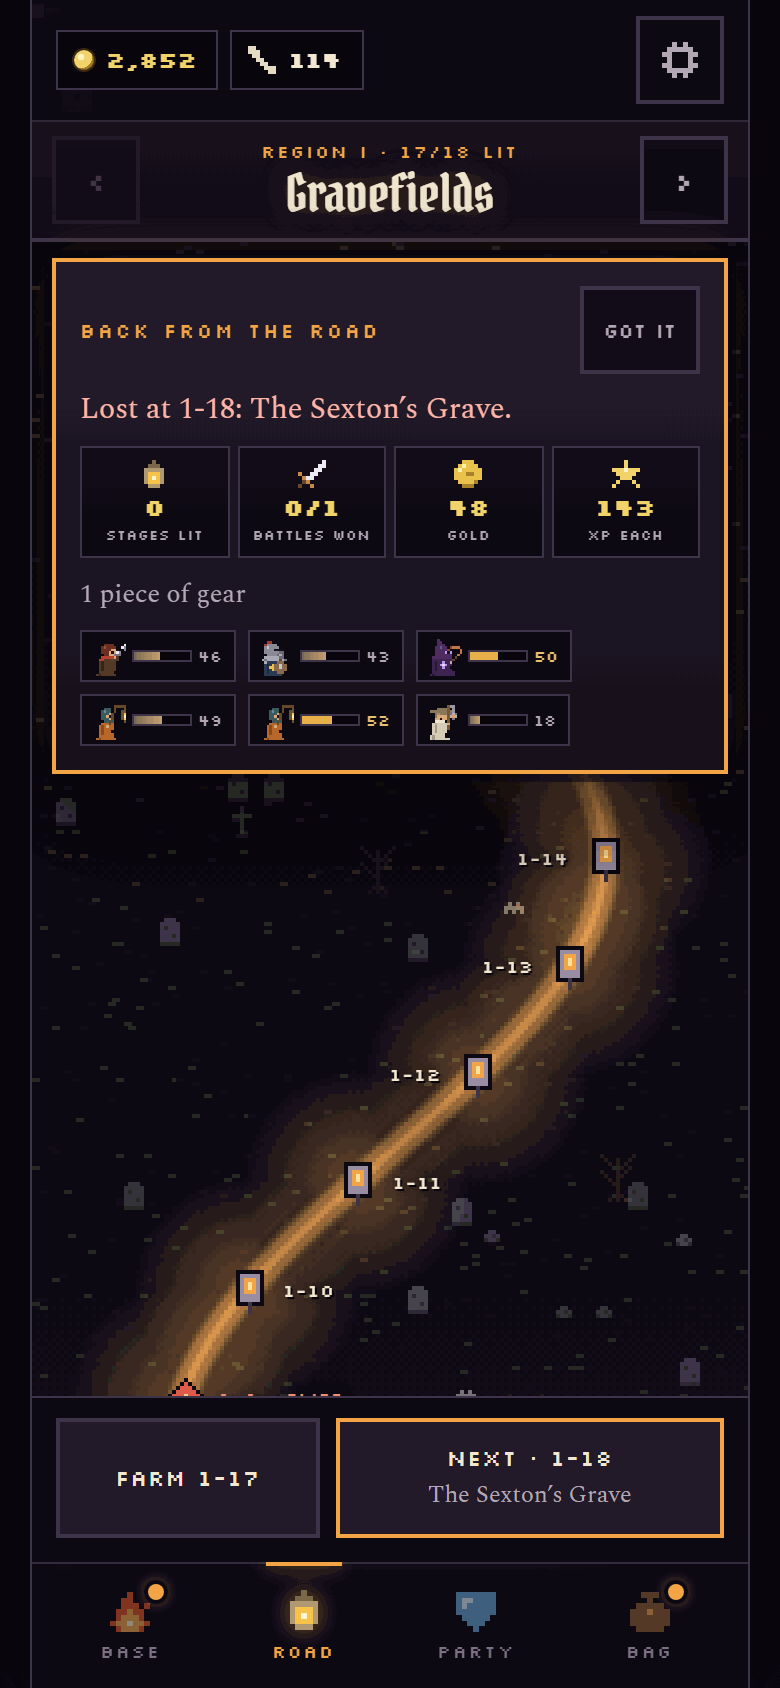
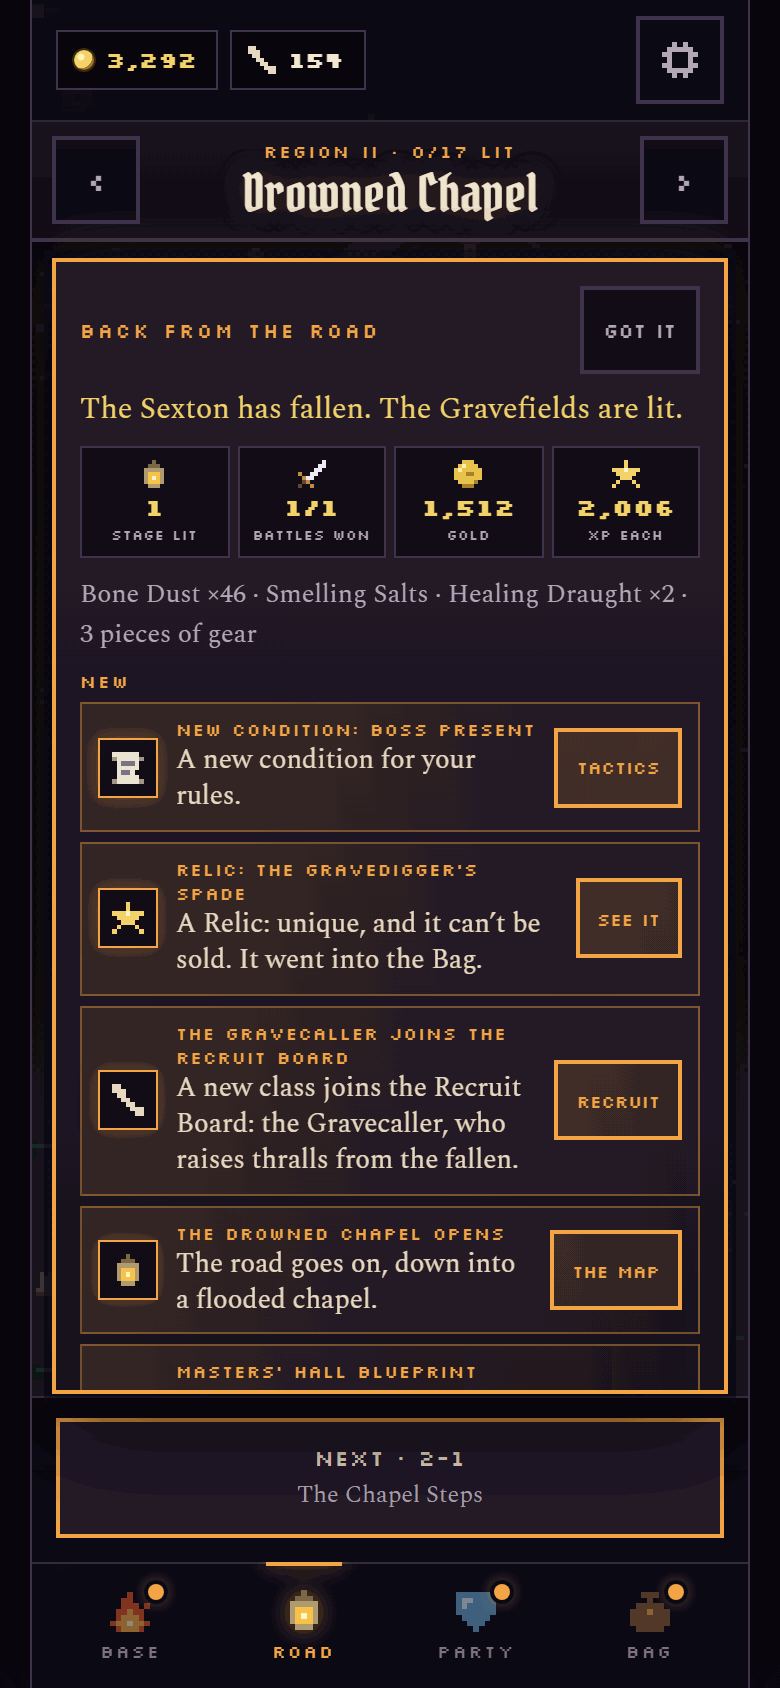
The final pass on Regions II–V: first-time tips for their tricks, the play-through through Region II, and screenshots
- First-time tips (one line, once) for what Regions II–V bring: Hidden foes, Lure, thorns, mana drain,
  regeneration and splash, and the first threshold at level 30.
- tools/playthrough.js plays through Regions I and II by default (--to=N for more): every unlock at its stage,
  each boss's Relic, the threshold tip once a hero passes 30.
- docs/screens/polish: the Sexton's and the Bishop's trip summaries with the regions' new buildings and classes, and
  the Prototype tools panel on the whole road.

diff --git a/tools/playthrough.js b/tools/playthrough.js
@@ -1,12 +1,12 @@
 'use strict';
-// End-to-end play-through (build step 7b): from a new game through Region I, using only the game's own mechanics, as a
+// End-to-end play-through (build step 7b): from a new game through Regions I and II (--to=N for more), using only the game's own mechanics, as a
 // sensible player would. No prototype tools: time passes on a simulated clock (rest, idle buildings, the board), and
 // the player picks a hero, sets out, fights, hires from the Recruit Board, builds what the road unlocks, spends points,
 // wears better gear, buys draughts, rests, and farms the stage before a wall when it loses.
 //
 // It looks for dead ends, stalls, errors and softlocks (the road stops moving, every hero Spent for good, gold below 0),
 // and checks that every unlock, building and first-time tip comes when the campaign spec says (§5.3, §5.4, §8).
-// Run: node tools/playthrough.js [runs per starting hero, default 2] [--verbose]
+// Run: node tools/playthrough.js [runs per starting hero, default 2] [--to=regions, default 2] [--verbose]
 const fs = require('fs'), path = require('path'), vm = require('vm');
 global.localStorage = { getItem: () => null, setItem: () => {}, removeItem: () => {} };
 
@@ -17,10 +17,12 @@ Date.now = () => CLOCK;
 for (const f of ['core.js', 'data.js', 'classes.js', 'classes-late.js', 'items.js', 'sim.js', 'hero.js', 'base.js', 'rest.js', 'save.js', 'rules.js', 'campaign.js']) vm.runInThisContext(fs.readFileSync(path.join(__dirname, '..', 'js', f), 'utf8'), { filename: f });
 
 const ARGS = process.argv.slice(2), RUNS = Number(ARGS.find(x => /^\d+$/.test(x))) || 2, VERBOSE = ARGS.includes('--verbose');
+const TO = Math.max(1, Math.min(5, Number((ARGS.find(x => x.startsWith('--to=')) || '--to=2').slice(5)) || 2));
 const MIN = 60000, HOUR = 60 * MIN;
 // What a battle costs in play time, watched at 1× with the rewards and the walk (campaign spec §8.2: 1–2 minutes a stage).
 const BATTLE_MS = res => (25 + res.rounds * 6) * 1000, WALK_MS = 3000;
-const REGION_I = STAGES.filter(st => st.region === 0);
+const REGION_I = STAGES.filter(st => st.region === 0), ROAD = STAGES.filter(st => st.region < TO);
+const ROMAN = ['I', 'II', 'III', 'IV', 'V'], THROUGH = TO === 1 ? 'Region I' : `Regions I–${ROMAN[TO - 1]}`;
 const pad = (s, n) => String(s).padEnd(n), lpad = (s, n) => String(s).padStart(n);
 const hm = ms => { const m = Math.round(ms / MIN); return `${Math.floor(m / 60)}:${String(m % 60).padStart(2, '0')}`; };
 
@@ -117,7 +119,7 @@ function play(cls, seed) {
 
   // ── the road
   let lostAt = -1, lostRun = 0, stuck = 0, lastFrontier = -1;
-  while (Campaign.frontier(s) < REGION_I.length && trips < 900) {
+  while (Campaign.frontier(s) < ROAD.length && trips < 400 * TO) {
     camp(); rest();
     const fr = Campaign.frontier(s);
     if (fr === lastFrontier) stuck++; else { stuck = 0; lastFrontier = fr; }
@@ -146,6 +148,7 @@ function play(cls, seed) {
       if (before.some(x => x.f < FATIGUE.WEARY && (x.c.fatigue || 0) >= FATIGUE.WEARY)) seen.weary = seen.weary || 1;
       if (out.r.gains.some(x => x.g.to > x.g.from)) seen.stat = seen.stat || 1;
       if (out.r.gains.some(x => x.g.skillPts > 0)) seen.skill = seen.skill || 1;
+      if (out.r.gains.some(x => x.g.thresholds && x.g.thresholds.length)) seen.threshold = seen.threshold || 1;
       for (const k in seen) if (seen[k] === 1) { seen[k] = 2; tipAt[k] = { stage: stage.id, at: playMs }; }
       if (out.r.first) { firstAt[stage.id] = { at: playMs, wait: waitMs, party: s.roster.length, levels: Campaign.chars(s).map(c => c.level), gold: s.currencies.gold, battles }; lostRun = 0; }
       if (!out.r.won) { losses++; if (lostAt === at) lostRun++; else { lostAt = at; lostRun = 1; } }
@@ -158,24 +161,26 @@ function play(cls, seed) {
   }
 
   // ── what should have happened (campaign spec §5.3, §5.4, §8)
-  const done = Campaign.frontier(s) >= REGION_I.length;
+  const done = Campaign.frontier(s) >= ROAD.length;
   if (!done) note('end', `stopped at ${STAGES[Campaign.frontier(s)].id} after ${trips} trips`);
-  for (const st of REGION_I) for (const id of st.first) {
+  for (const st of ROAD) for (const id of st.first) {
     if (!UNLOCKS[id]) continue;
     if (!s.unlocks[id]) note('unlock', `${id} never unlocked (${st.id})`);
     else if (unlockAt[id] && unlockAt[id].stage !== st.id) note('unlock', `${id} unlocked at ${unlockAt[id].stage}, not ${st.id}`);
   }
   if (!s.unlocks['cond:ally_fallen'] && seen.fell) note('unlock', 'a hero fell but “Ally: fallen” never unlocked');
-  for (const k of ['bleed', 'marked', 'guarded', 'fell', 'step', 'called', 'stat', 'skill']) if (!seen[k]) note('tip', `the “${k}” tip never had its moment in Region I`);
+  for (const k of ['bleed', 'marked', 'guarded', 'fell', 'step', 'called', 'stat', 'skill']) if (!seen[k]) note('tip', `the “${k}” tip never had its moment`);
   const recruit1 = hires[0];
   if (!recruit1) note('recruit', 'no recruit in Region I');
   else if (recruit1.at > 12 * MIN) note('pace', `the first recruit came at ${hm(recruit1.at)} of play (the design asks for about 10 minutes)`);
-  if (s.roster.length < 6) note('party', `only ${s.roster.length} heroes by the end of Region I`);
+  if (firstAt['1-18'] && firstAt['1-18'].party < 6) note('party', `only ${firstAt['1-18'].party} heroes at the end of Region I`);
+  if (s.roster.some(c => c.level >= 30) && !seen.threshold) note('tip', 'a hero passed level 30 without the threshold tip');
   // Plots are scarce (every plot is a choice): by the Sexton, Renown has cleared four, and four should stand.
   const standing = BUILDING_ORDER.filter(id => BUILDINGS[id].plot !== false && Base.built(id, s));
   if (standing.length < Math.min(4, Base.plotsCleared(s))) note('build', `only ${standing.length} buildings stand on ${Base.plotsCleared(s)} plots`);
   for (const id of ['tollhouse', 'infirmary', 'trainingyard', 'shop', 'tactician', 'scavengercamp', 'barracks', 'salvagepit']) if (!Base.blueprint(id, s)) note('build', `the ${id} blueprint never came`);
-  if (!s.inventory.items.concat(s.roster.flatMap(c => SLOTS.map(k => c.gear[k]).filter(Boolean))).some(x => x.id === 'gravediggersspade')) note('relic', 'the Sexton’s Relic never arrived');
+  const owned = s.inventory.items.concat(s.roster.flatMap(c => SLOTS.map(k => c.gear[k]).filter(Boolean)));
+  for (const st of ROAD.filter(x => x.boss)) for (const id of st.first.filter(u => UNLOCKS[u] && UNLOCKS[u].relic)) if (!owned.some(x => x.id === UNLOCKS[id].relic)) note('relic', `${UNLOCKS[id].name} never arrived (${st.id})`);
   Date.now = () => CLOCK;
   return { cls, seed, done, problems, firstAt, unlockAt, tipAt, hires, builds, trips, battles, losses, farms, playMs, waitMs, lowGold, roster: s.roster.map(c => `${CLASSES[c.cls].name} ${c.level}`), gold: s.currencies.gold, renown: Base.renown(s).level };
 }
@@ -185,7 +190,7 @@ const results = [];
 for (const cls of STARTERS) for (let k = 1; k <= RUNS; k++) results.push(play(cls, k));
 Date.now = realNow;
 
-console.log('Play-through: a new game through Region I, real mechanics only (no prototype tools)\n');
+console.log(`Play-through: a new game through ${THROUGH}, real mechanics only (no prototype tools)\n`);
 console.log('   start       seed  done  trips battles lost farms   play   rested  1st hire   6th hire  low gold  Renown  party at the end');
 for (const r of results) {
   console.log(`   ${pad(CLASSES[r.cls].name, 11)} ${lpad(r.seed, 4)}  ${pad(r.done ? 'yes' : 'NO', 4)}  ${lpad(r.trips, 5)} ${lpad(r.battles, 7)} ${lpad(r.losses, 4)} ${lpad(r.farms, 5)}  ${lpad(hm(r.playMs), 5)}  ${lpad(hm(r.waitMs), 7)}  ${lpad(r.hires[0] ? hm(r.hires[0].at) + ' ' + r.hires[0].stage : '—', 9)}  ${lpad(r.hires[4] ? r.hires[4].stage : '—', 8)}  ${lpad(r.lowGold, 8)}  ${lpad(r.renown, 6)}  ${r.roster.join(', ')}`);
@@ -193,7 +198,7 @@ for (const r of results) {
 // the first run's timeline, stage by stage
 const R = results[0];
 console.log(`\nTimeline (${CLASSES[R.cls].name}, seed ${R.seed}): play time at each first clear, the party, and what it unlocked`);
-for (const st of REGION_I) {
+for (const st of ROAD) {
   const f = R.firstAt[st.id];
   if (!f) { console.log(`   ${pad(st.id, 5)} not lit`); continue; }
   const unl = st.first.filter(id => UNLOCKS[id]).map(id => UNLOCKS[id].name).join(' · ');
@@ -202,7 +207,7 @@ for (const st of REGION_I) {
 console.log('\nBuildings built (first run): ' + R.builds.map(b => `${BUILDINGS[b.id].name} at ${b.stage} (${hm(b.at)})`).join(', '));
 console.log('Tips had their moment (first run): ' + Object.entries(R.tipAt).map(([k, v]) => `${k} ${v.stage}`).join(', '));
 const all = results.flatMap(r => r.problems);
-console.log(`\n${all.length ? all.length + ' problem(s):' : 'No problems: every run reached the end of Region I, with every unlock, building and tip on time.'}`);
+console.log(`\n${all.length ? all.length + ' problem(s):' : `No problems: every run reached the end of ${THROUGH}, with every unlock, building and tip on time.`}`);
 for (const p of all) console.log('   ' + p);
 if (VERBOSE) console.log(JSON.stringify(results.map(r => ({ cls: r.cls, seed: r.seed, unlockAt: r.unlockAt, hires: r.hires })), null, 1));
 process.exitCode = all.length ? 1 : 0;

diff --git a/js/main.js b/js/main.js
@@ -433,6 +433,14 @@ const TIPS = {
   weary: 'Weary: rest at camp. The Infirmary will speed it up.',
   stat: 'A stat point: spend it on the hero’s Stats tab.',
   skill: 'A skill point: learn a tier-1 skill, then choose which one to equip.',
+  // Regions II–V (build step 7b): their new foes, the first time each trick is played
+  hidden: 'Hidden: single-target attacks can’t aim at it until it attacks. Hits on a whole row still reach it.',
+  lured: 'Lured: a foe pulled a hero out of the back row. Move resistance holds them in place.',
+  thorns: 'Thorns: this foe hurts whoever strikes it. Ranged and magic attacks take the sting too.',
+  drain: 'Mana drain: the foe steals a hero’s mana and heals itself with it.',
+  regen: 'Regenerating: this foe heals at the start of every turn. Hit it hard and fast.',
+  splash: 'Splash: a heavy blow on the front row spills onto the hero behind.',
+  threshold: 'A threshold: choose what it opens on the hero’s Skills tab, the next tier or more.',
 };
 function showTip(k, text) { Guide.tip(k, text || TIPS[k]); }
 const isHeroId = id => /^p\d$/.test(id);
@@ -447,12 +455,18 @@ function battleTip(e) {
   else if (e.t === 'die' && isHeroId(e.who)) showTip('fell');
   else if (e.t === 'step') showTip('step');
   else if (e.t === 'summon' && e.unit.side === 1) showTip('called');
+  else if (e.t === 'miss' && e.why === 'hidden') showTip('hidden');
+  else if (e.t === 'swap' && e.why === 'lure' && [e.a, e.b].some(id => id && isHeroId(id))) showTip('lured');
+  else if (e.t === 'counter' && e.why === 'thorns' && isHeroId(e.tgt)) showTip('thorns');
+  else if (e.t === 'heal' && (e.how === 'drain' || e.how === 'regen') && e.tgt && e.tgt[0] === 'f') showTip(e.how);
+  else if (e.t === 'hit' && e.splash && isHeroId(e.tgt)) showTip('splash');
 }
 function afterTips(res) {
   const f = res.camp.r.fatigue;
   if (Object.values(f).some(x => x.before < FATIGUE.WEARY && x.after >= FATIGUE.WEARY)) showTip('weary');
   if (res.gains.some(x => x.g.to > x.g.from)) showTip('stat');
   if (res.gains.some(x => x.g.skillPts > 0)) showTip('skill');
+  if (res.gains.some(x => x.g.thresholds && x.g.thresholds.length)) showTip('threshold');
 }
 try {
   const hot = window.claude && window.claude.hot;

diff --git a/README.md b/README.md
@@ -77,7 +77,7 @@ The simulation and the hero model never touch the page, so the same code runs th
 ### Tests
 
 - `node tools/simtest.js [battles per stage]` simulates hundreds of battles per stage and checks every event log for broken rules. It tests the home base: a new game, the Recruit Board, the gold over Region I's first clears against the campaign's party sizes, rest and beds, each battle's fatigue, idle buildings and time away (the same after a reload), costs, choices and tearing down, Renown, the Hall, the Shrine, the Tactician, the Shop, dismissing and the save. It ends with the campaign: the five regions' data and art, each region's engine pieces, rewards, fatigue, unlocks and trips, and the reference-party report (campaign spec §5.6), every stage of every region one and two levels either side of its recommendation against its target, with each region's farming loop. `node tools/simtest.js --ref [battles] [--regions=2,3]` runs only that report (`tools/reference.js`). It also runs the party at several levels, rules and skills experiments, a fuzz of random builds across all twelve classes, and tests of the hero model, the save migration and the rules model. For gear, it checks that every item's effect fires, runs random gear on random builds, compares a Common, Fine and Rare weapon in the same fights, and tests loot odds, the Bag and equipping.
-- `node tools/playthrough.js [runs per starting hero]` plays a new game through Region I with the game's own mechanics and no prototype tools, as a sensible player would: the first pick, trips, recruiting, building, points, gear, draughts, rest on a simulated clock, and farming the stage before a wall. It fails on a stall, a softlock or an error, and checks that every unlock, blueprint and first-time tip comes when the campaign spec says. It prints each run's play and rest time, its hires, and a stage-by-stage timeline.
+- `node tools/playthrough.js [runs per starting hero] [--to=regions]` plays a new game through Regions I and II (or as far as `--to` says) with the game's own mechanics and no prototype tools, as a sensible player would: the first pick, trips, recruiting, building, points, gear, draughts, rest on a simulated clock, and farming the stage before a wall. It fails on a stall, a softlock or an error, and checks that every unlock, blueprint and first-time tip comes when the campaign spec says. It prints each run's play and rest time, its hires, and a stage-by-stage timeline.
 - `python tools/playthrough_ui.py [hero]` does the same in headless Chromium through the game's own buttons (Set out, Skip, Home, Recruit, Build), and records every coach mark, tip and new thing as it appears, and every console error.
 - `python tools/shot.py index.html out.png` takes phone-sized screenshots in headless Chromium and prints console errors (needs Playwright). A steps file can wait for the page (`until:<expression>`), so a screenshot can catch a boss's phase change, and a `size:<w>,<h>` step turns the phone.
 - `tools/sprites.html` shows every sprite and icon at a large size: all twelve classes from the side and from behind, every weapon, armour and accessory on a hero, the thralls, the item icons and every foe by region. Add `?part=classes`, `weapons`, `armour`, `accessories`, `icons` or `foes` for one part.
